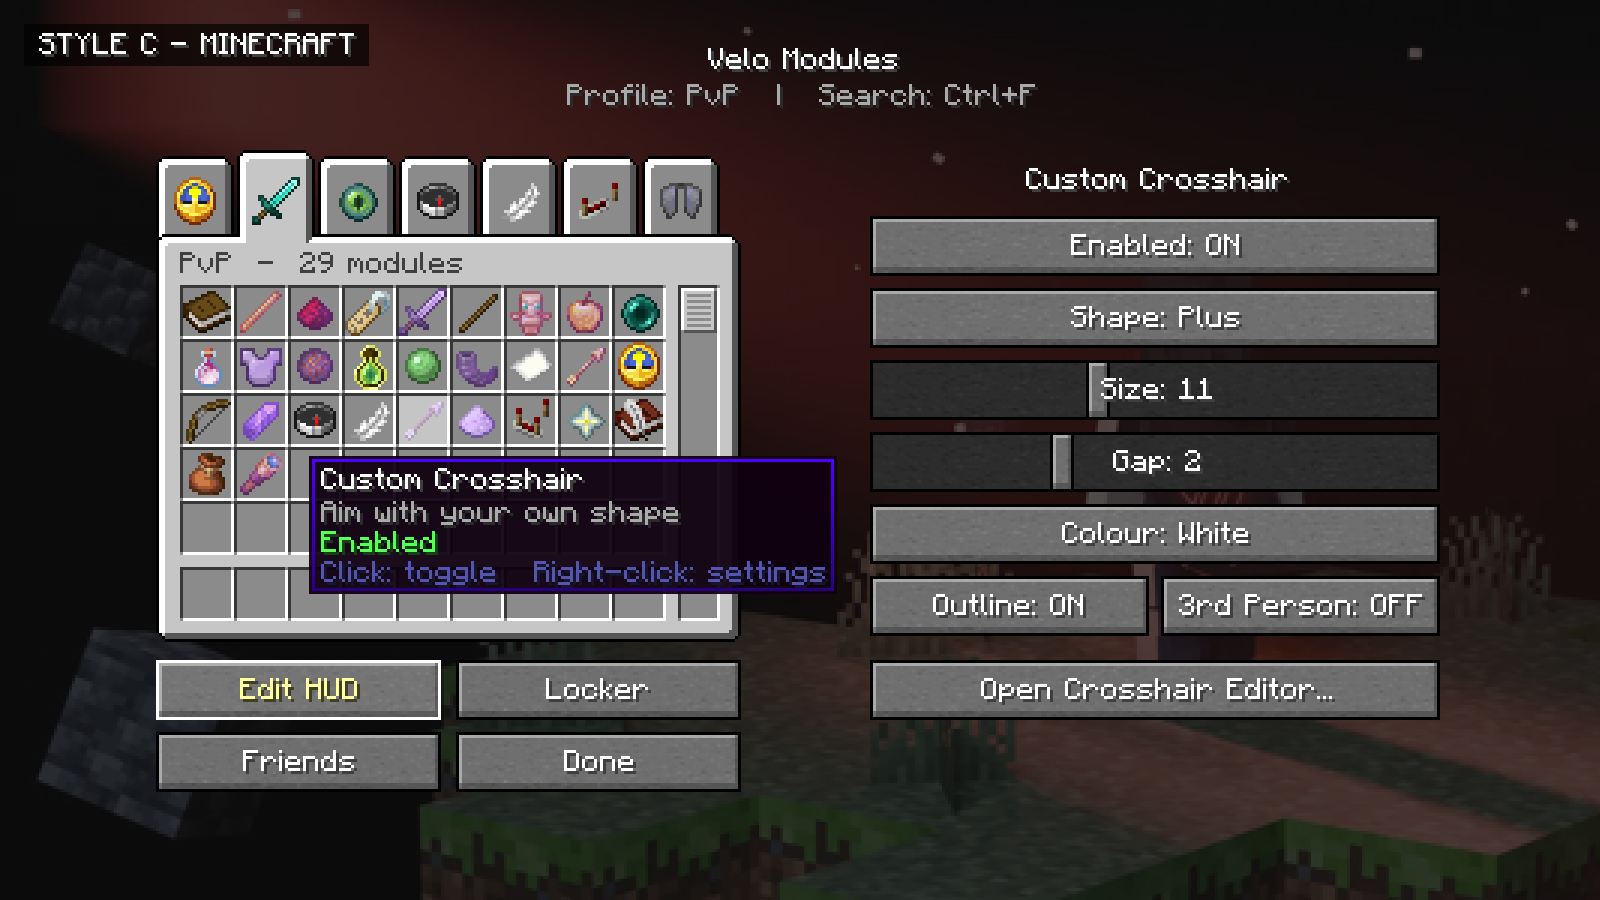
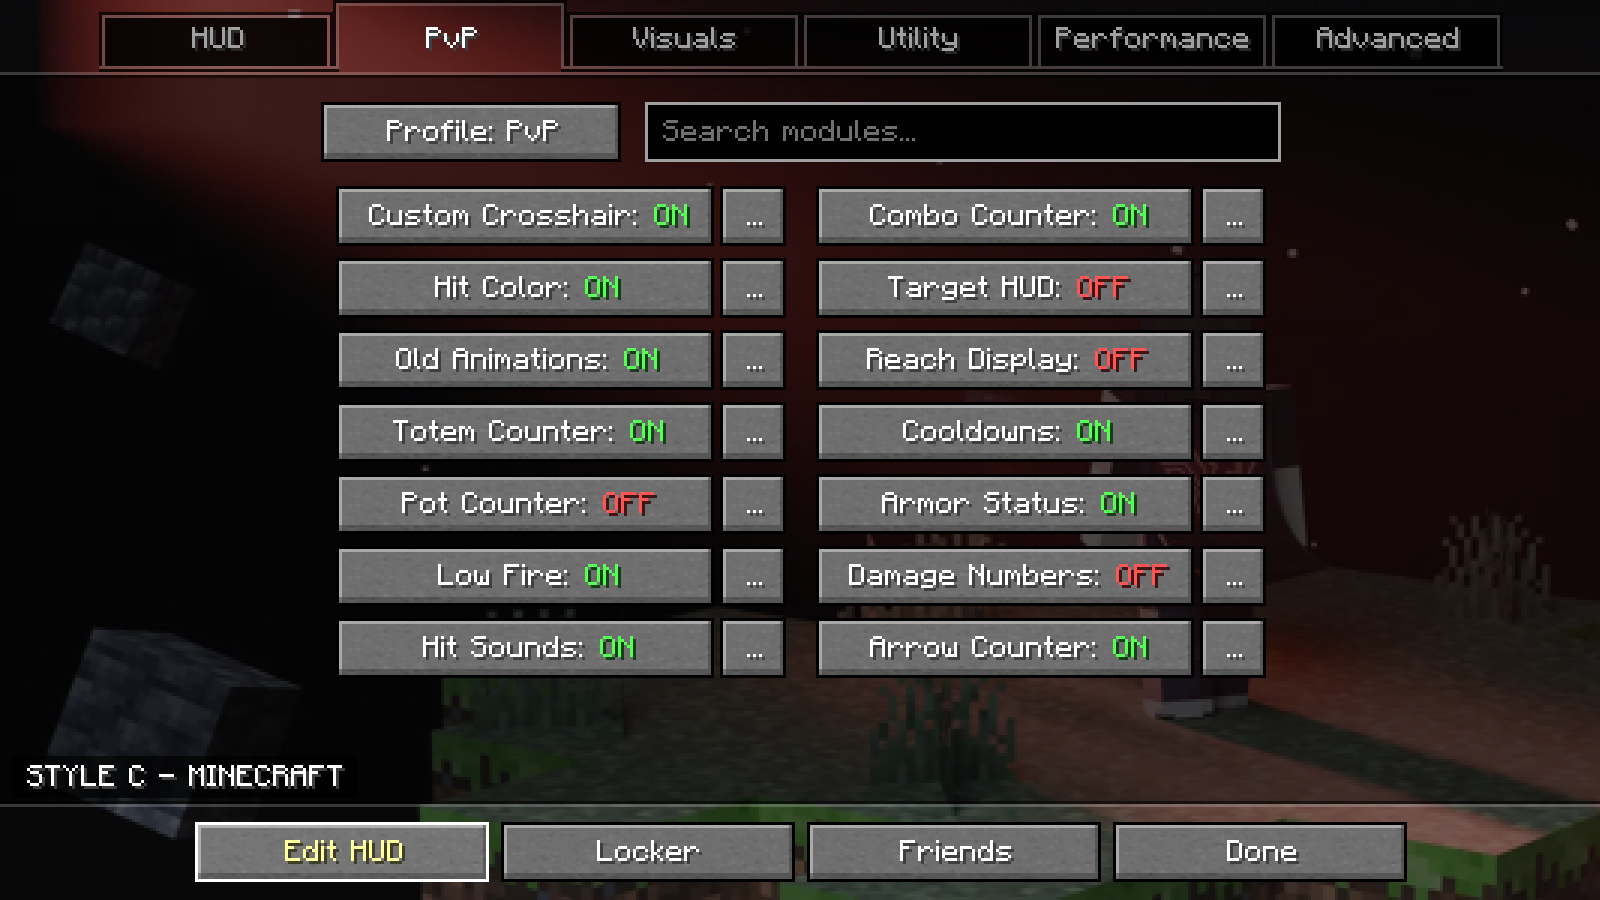
Poll: style C = normal menu with Minecraft font, buttons, tabs and list background (no creative inventory)

diff --git a/design/poll/minecraft-render/render.py b/design/poll/minecraft-render/render.py
@@ -62,49 +62,55 @@ def tooltip(im,x,y,lines):
     for j in range(1,h-1):
         t=j/(h-1); c=(int(80-40*t),0,int(255-128*t),255); im.putpixel((x+1,y+j),c); im.putpixel((x+w-2,y+j),c)
     for i,(s,col) in enumerate(lines): text(im,s,x+4,y+4+i*10+(1 if i else 0),col)
-# ---- scene ----
+
+# ---- scene: the normal Velo menu, just with Minecraft's font, buttons, tabs and list background ----
+def nine(im,spr,x,y,w,h,b=2):
+    sw,sh=spr.size
+    for (sx0,sx1,dx0,dx1) in [(0,b,x,x+b),(b,sw-b,x+b,x+w-b),(sw-b,sw,x+w-b,x+w)]:
+        for (sy0,sy1,dy0,dy1) in [(0,b,y,y+b),(b,sh-b,y+b,y+h-b),(sh-b,sh,y+h-b,y+h)]:
+            if dx1>dx0 and dy1>dy0:
+                im.alpha_composite(spr.crop((sx0,sy0,sx1,sy1)).resize((dx1-dx0,dy1-dy0),Image.NEAREST),(dx0,dy0))
 bg=Image.open('/home/daviseib/Dokumente/VSCode/Velo Client/design/poll/bg.jpg').convert('RGBA').resize((W,H))
-im=ImageEnhance.Brightness(bg).enhance(0.85)
-shade=Image.new('RGBA',(W,H),(16,16,16,175)); im.alpha_composite(shade)
-# header (vanilla screen title + subtitle)
-centered(im,'Velo Modules',W//2,16)
-centered(im,'Profile: PvP   |   Search: Ctrl+F',W//2,28,(170,170,170))
-# creative-style panel with tabs
-PX,PY=52,78
-tabs=[('clock_00','HUD'),('diamond_sword','PvP'),('ender_eye','Visuals'),('compass_00','Utility'),('feather','Performance'),('repeater','Advanced'),('elytra','Cosmetics')]
-SEL=1
-for i,(ic,_) in enumerate(tabs):
-    if i==SEL: continue
-    t=img(f'gui/sprites/container/creative_inventory/tab_top_unselected_{i+1}.png'); im.alpha_composite(t,(PX+i*27,PY-28))
-    draw_item(im,ic,PX+i*27+5,PY-28+9)
-panel=img('gui/container/creative_inventory/tab_items.png').crop((0,0,195,136)); im.alpha_composite(panel,(PX,PY))
-t=img(f'gui/sprites/container/creative_inventory/tab_top_selected_{SEL+1}.png'); im.alpha_composite(t,(PX+SEL*27,PY-28))
-draw_item(im,tabs[SEL][0],PX+SEL*27+5,PY-28+9)
-text(im,'PvP  -  29 modules',PX+8,PY+6,(64,64,64),False)
-im.alpha_composite(img('gui/sprites/container/creative_inventory/scroller.png'),(PX+175,PY+18))
-mods=[('book','Enemy Effects',0),('blaze_rod','Combo Counter',1),('redstone','Hit Color',1),('name_tag','Target HUD',0),('iron_sword','Old Animations',1),
-('stick','Reach Display',0),('totem_of_undying','Totem Counter',1),('golden_apple','Cooldowns',1),('ender_pearl','Pearl Timer',0),
-('dragon_breath','Pot Counter',0),('iron_chestplate','Armor Status',1),('fire_charge','Low Fire',1),('experience_bottle','Damage Numbers',0),('slime_ball','Hit Particles',0),
-('goat_horn','Hit Sounds',1),('paper','Auto GG',0),('spectral_arrow','Arrow Counter',1),('clock_00','Fight Recap',0),('bow','Item Position',0),('amethyst_shard','Health Indicator',1),
-('compass_00','Direction',0),('feather','Speed',0),('arrow','Custom Crosshair',1),('sugar','FOV',1),('comparator','Attack Indicator',0),('nether_star','Shield Indicator',0),
-('writable_book','Height Limit',0),('bundle','Inventory HUD',0),('spyglass','Low Health Warning',1)]
-for i,(ic,name,on) in enumerate(mods):
-    cx,cy=PX+9+(i%9)*18,PY+18+(i//9)*18
-    draw_item(im,ic,cx,cy,glint=bool(on))
-# hovered slot highlight + tooltip (Custom Crosshair)
-hx,hy=PX+9+4*18,PY+18+2*18
-hl=Image.new('RGBA',(16,16),(255,255,255,128)); im.alpha_composite(hl,(hx,hy))
-tooltip(im,hx-30,hy+20,[('Custom Crosshair',(255,255,255)),('Aim with your own shape',(170,170,170)),('Enabled',(85,255,85)),('Click: toggle   Right-click: settings',(85,85,85+90))])
-# bottom buttons under the panel
-button(im,PX,PY+142,95,'Edit HUD',hover=True); button(im,PX+100,PY+142,95,'Locker')
-button(im,PX,PY+166,95,'Friends'); button(im,PX+100,PY+166,95,'Done')
-# settings column (vanilla options look)
-SX=290; centered(im,'Custom Crosshair',SX+95,PY-22)
-button(im,SX,PY-6,190,'Enabled: ON'); button(im,SX,PY+18,190,'Shape: Plus')
-slider(im,SX,PY+42,190,'Size: 11',0.4); slider(im,SX,PY+66,190,'Gap: 2',0.33)
-button(im,SX,PY+90,190,'Colour: White'); button(im,SX,PY+114,93,'Outline: ON'); button(im,SX+97,PY+114,93,'3rd Person: OFF')
-button(im,SX,PY+142,190,'Open Crosshair Editor...')
-# style tag
-tg=Image.new('RGBA',(text_w('STYLE C - MINECRAFT')+10,14),(0,0,0,170)); im.alpha_composite(tg,(8,8)); text(im,'STYLE C - MINECRAFT',13,11)
+im=ImageEnhance.Brightness(bg).enhance(0.9)
+im.alpha_composite(Image.new('RGBA',(W,H),(16,16,16,120)))
+# tabs (like Create World), header separator
+TAB=img('gui/sprites/widget/tab.png'); TABS=img('gui/sprites/widget/tab_selected.png')
+cats=['HUD','PvP','Visuals','Utility','Performance','Advanced']
+tw=78; tx0=(W-tw*len(cats))//2
+for i,c in enumerate(cats):
+    nine(im,TABS if i==1 else TAB,tx0+i*tw,0,tw,24)
+    centered(im,c,tx0+i*tw+tw//2,9 if i==1 else 9,(255,255,255) if i==1 else (160,160,160))
+LIST=img('gui/inworld_menu_list_background.png')
+top,bottom=26,H-33
+for yy in range(top,bottom,16):
+    for xx in range(0,W,16):
+        im.alpha_composite(LIST.crop((0,0,min(16,W-xx),min(16,bottom-yy))),(xx,yy))
+HS=img('gui/inworld_header_separator.png'); FS=img('gui/inworld_footer_separator.png')
+for xx in range(0,W,32):
+    im.alpha_composite(HS.crop((0,0,min(32,W-xx),2)),(xx,24)); im.alpha_composite(FS.crop((0,0,min(32,W-xx),2)),(xx,H-33))
+# profile + search row
+button(im,W//2-160,34,100,'Profile: PvP')
+TF=img('gui/sprites/widget/text_field.png'); nine(im,TF,W//2-52,34,212,20,1)
+text(im,'Search modules...',W//2-46,40,(112,112,112),False)
+# module options in two columns, like vanilla Options
+def option(x,y,name,on):
+    w=126
+    button(im,x,y,w,'')
+    label=name+': '; v='ON' if on else 'OFF'
+    tot=text_w(label+v); sx=x+w//2-tot//2
+    sx=text(im,label,sx,y+6); text(im,v,sx+1,y+6,(85,255,85) if on else (255,85,85))
+    button(im,x+w+2,y,22,'...')
+mods=[('Custom Crosshair',1),('Combo Counter',1),('Hit Color',1),('Target HUD',0),('Old Animations',1),('Reach Display',0),('Totem Counter',1),
+('Cooldowns',1),('Pot Counter',0),('Armor Status',1),('Low Fire',1),('Damage Numbers',0),('Hit Sounds',1),('Arrow Counter',1)]
+cx0=W//2-155
+for i,(n,on) in enumerate(mods):
+    col=i%2; row=i//2
+    option(cx0+col*160,62+row*24,n,on)
+# footer buttons
+labels=['Edit HUD','Locker','Friends','Done']
+bw=98; fx=(W-(bw*4+4*3))//2
+for i,l in enumerate(labels):
+    button(im,fx+i*(bw+4),H-26,bw,l,hover=(i==0))
+tg=Image.new('RGBA',(text_w('STYLE C - MINECRAFT')+10,14),(0,0,0,170)); im.alpha_composite(tg,(4,H-48)); text(im,'STYLE C - MINECRAFT',9,H-45)
 im=im.resize((W*3,H*3),Image.NEAREST).crop((0,0,1600,900))
 im.convert('RGB').save(OUT); print('saved')
